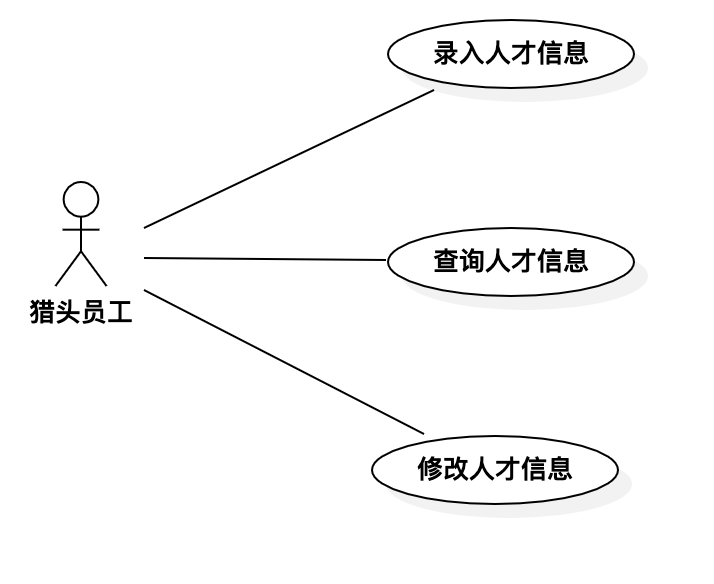
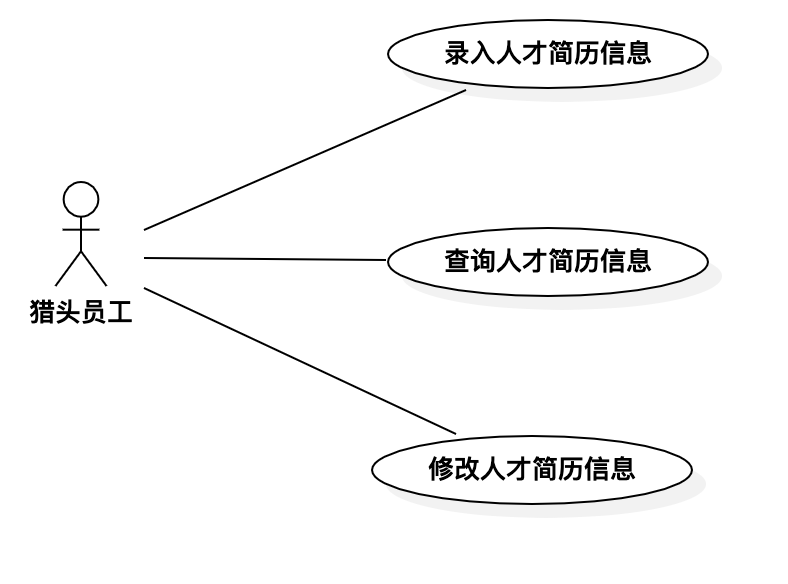
#4 #5 实验四 & 五：类建模

diff --git a/students/1714080902209/lab2.md b/students/1714080902209/lab2.md
@@ -18,7 +18,7 @@
 
   参与者：猎头企业员工
 
-  添加用例：录入人才信息、查询人才信息、修改人才信息
+  添加用例：录入人才简历信息、查询人才简历信息、修改人才简历信息
 
   建立参与者与用例的联系
 
@@ -30,46 +30,46 @@
 
 图1: 猎头管理系统用例图1
 
-## 表1: 录入人才信息用例规约
+## 表1: 录入人才简历信息用例规约
 
 用例编号  | HMS201 | 备注  
 -|:-|-  
-用例名称  | 录入人才信息  |  
+用例名称  | 录入人才简历信息  |  
 前置条件  | 员工登入系统  | *可选*  
 后置条件  | 系统连接数据库  | *可选*  
 基本流程  | 1. 员工点击“新建”按钮  |  
 ~| 2. 系统显示新建页面  |  
-~| 3. 员工输入人才信息  |  
+~| 3. 员工输入人才简历信息  |  
 ~| 4. 员工点击“保存”按钮  |  
-~| 5. 系统保存人才信息成功，提示保存成功  |  
-扩展流程  | 4.1 信息输入不合规范，系统提示输入错误  | *用例执行失败*  
-~| 5.1 系统保存人才信息失败，提示修改失败  | *用例执行失败*
+~| 5. 系统保存人才简历信息成功，提示保存成功  |  
+扩展流程  | 4.1 简历信息输入不合规范，系统提示输入错误  | *用例执行失败*  
+~| 5.1 系统保存人才简历信息失败，提示保存失败  | *用例执行失败*
 
-## 表2: 查询人才信息用例规范
+## 表2: 查询人才简历信息用例规范
 
 用例编号  | HMS202 | 备注  
 -|:-|-  
-用例名称  | 查询人才信息  |  
+用例名称  | 查询人才简历信息  |  
 前置条件  | 员工登入系统  | *可选*  
 后置条件  | 系统连接数据库  | *可选*  
 基本流程  | 1. 员工输入查询信息  |  
 ~| 2. 员工点击“查询”按钮  |  
-~| 3. 系统检索数据库相匹配的人才信息  |  
-~| 4. 信息检索成功并由系统显示出来  |  
+~| 3. 系统检索数据库相匹配的人才简历  |  
+~| 4. 简历检索成功并由系统显示出来  |  
 扩展流程  | 2.1 信息输入不合规范，系统提示输入错误  | *用例执行失败* 
-~| 4.1 数据库不存在该信息，系统提示查询失败  | *用例执行失败*
+~| 4.1 数据库不存在该简历，系统提示查询失败  | *用例执行失败*
 
-## 表3: 修改人才信息用例规范
+## 表3: 修改人才简历信息用例规范
 
 用例编号  | HMS203 | 备注  
 -|:-|-  
-用例名称  | 修改人才信息  |  
+用例名称  | 修改人才简历信息  |  
 前置条件  | 员工登入系统  | *可选*  
 后置条件  | 系统连接数据库  | *可选*  
-基本流程  | 1. 员工打开已存在的人才信息  |  
+基本流程  | 1. 员工打开已存在的人才简历  |  
 ~| 2. 员工点击“修改”按钮  |  
-~| 3. 员工输入人才信息  |  
+~| 3. 员工输入人才简历信息  |  
 ~| 4. 员工点击“保存”按钮  |  
-~| 5. 系统保存人才信息成功，提示保存成功  |  
-扩展流程  | 4.1 信息输入不合规范，系统提示输入错误  | *用例执行失败* 
-~| 5.1 系统保存人才信息失败，提示修改失败  | *用例执行失败*
+~| 5. 系统保存人才简历信息成功，提示保存成功  |  
+扩展流程  | 4.1 简历信息输入不合规范，系统提示输入错误  | *用例执行失败* 
+~| 5.1 系统保存人才简历信息失败，提示修改失败  | *用例执行失败*

diff --git a/students/1714080902209/lab3.md b/students/1714080902209/lab3.md
@@ -17,18 +17,19 @@
 - 在StarUML上创建活动图并添加始末结点；
 - 根据实验二的用例规约添加动作及决策点；
 - 控制信息流的走向；
-- 结合用例规约检查活动图。
+- 结合用例规约检查活动图；
+- 编写实验报告
 
 ## 4. 实验结果
 
-![录入人才信息](./HMS301.png)
+![录入人才简历信息](./HMS301.png)
 
-图1. 录入人才信息活动图
+图1. 录入人才简历信息活动图
 
-![查询人才信息](./HMS301.png)
+![查询人才简历信息](./HMS301.png)
 
-图2. 查询人才信息活动图
+图2. 查询人才简历信息活动图
 
-![修改人才信息](./HMS301.png)
+![修改人才简历信息](./HMS301.png)
 
-图3. 修改人才信息活动图
+图3. 修改人才简历信息活动图

diff --git a/students/1714080902209/lab4.md b/students/1714080902209/lab4.md
@@ -1,0 +1,29 @@
+# 实验四 & 五：类建模
+
+## 实验目标
+
+- 掌握类建模方法；
+- 了解MVC或你熟悉的设计模式；
+- 掌握类图(Class Diagram)的画法。
+
+## 实验内容
+
+- 基于MVC模式设计类；
+- 设计类的关系并画出类图。
+
+## 实验步骤
+
+- 观看教学视频，了解Class Diagram的基本图形及用法；
+- 根据实验二用例规约找出类(Model、View、Controller)；
+- 用线连接各个类表示它们之间的关系；
+- 编写实验报告。
+
+## 实验结果
+![类图1](./HMS401.png)  
+图1.录入人才简历类图
+
+![类图2](./HMS402.png)  
+图2.查询人才简历类图
+
+![类图3](./HMS403.png)  
+图3.修改人才简历类图
